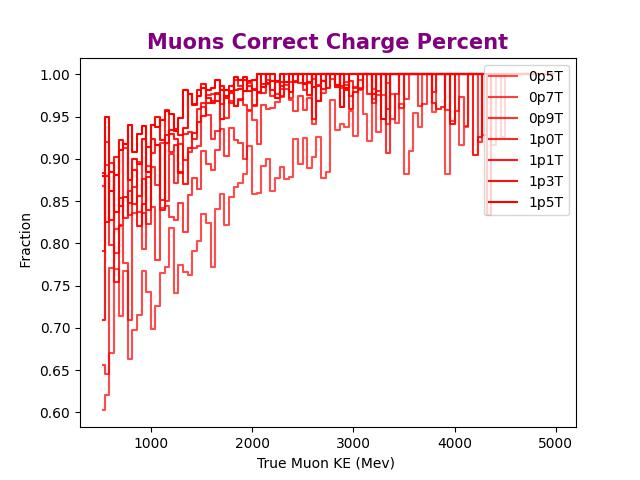
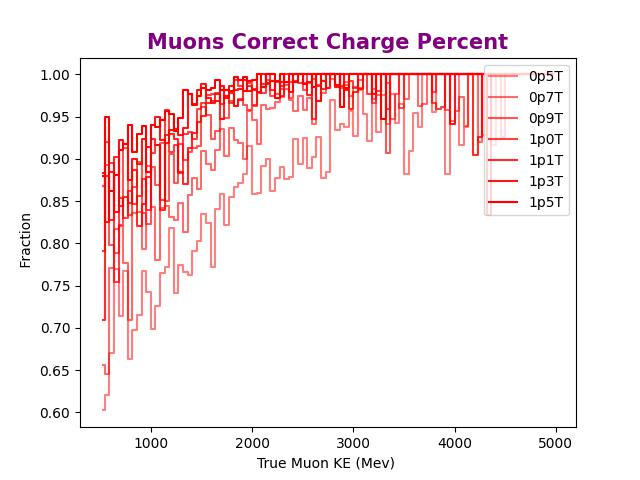
25th June 24

Changed region(s): [[0.1562, 0.1562, 0.75, 0.7812], [0.7812, 0.1562, 0.8125, 0.25], [0.1562, 0.8125, 0.1875, 0.8438]]

diff --git a/new/make_for_correct_muons.py b/new/make_for_correct_muons.py
@@ -18,7 +18,7 @@ num_colors = 7
 # red_colors = [mcolors.to_hex((i/num_colors, 0, 0)) for i in range(num_colors)]
 # red_colors = [mcolors.to_hex((1, i/(num_), i/(num_colors-1))) for i in range(num_colors,0,-1)]
 # red_colors = [mcolors.to_hex((i/num_colors,0,0)) for i in range(num_colors,0,-1)]
-alpha_colors = np.linspace(0.7,1,num_colors)
+alpha_colors = np.linspace(0.5,1,num_colors)
 
 indexes = ['0p5T', '0p7T', '0p9T', '1p0T', '1p1T', '1p3T', '1p5T']
 muon_names=[]
